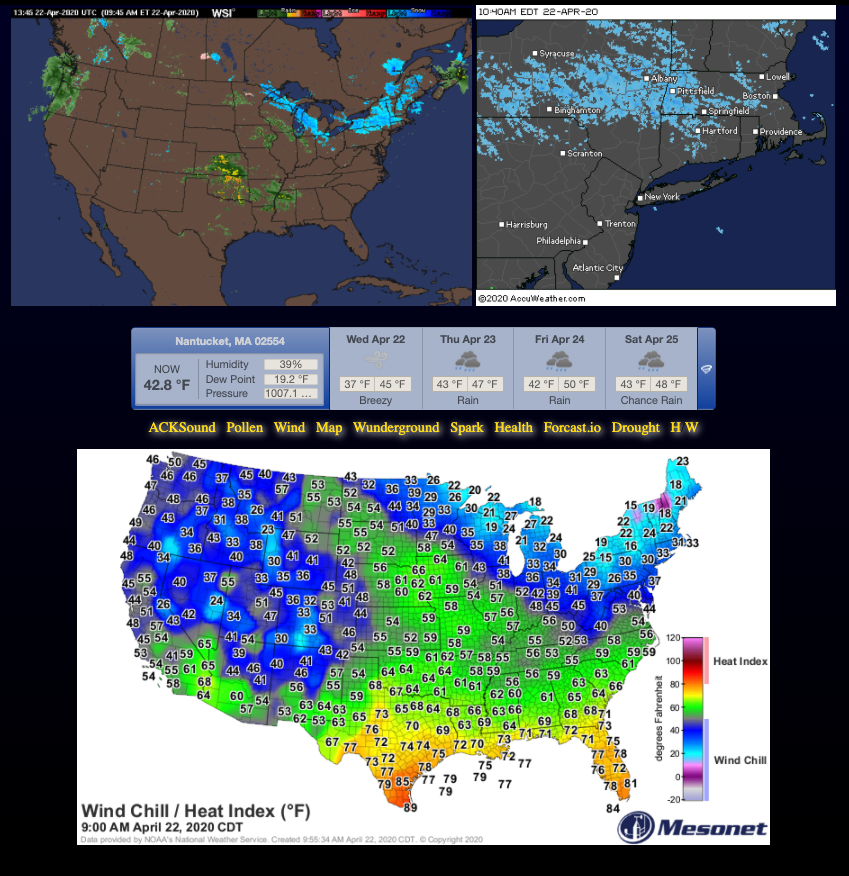
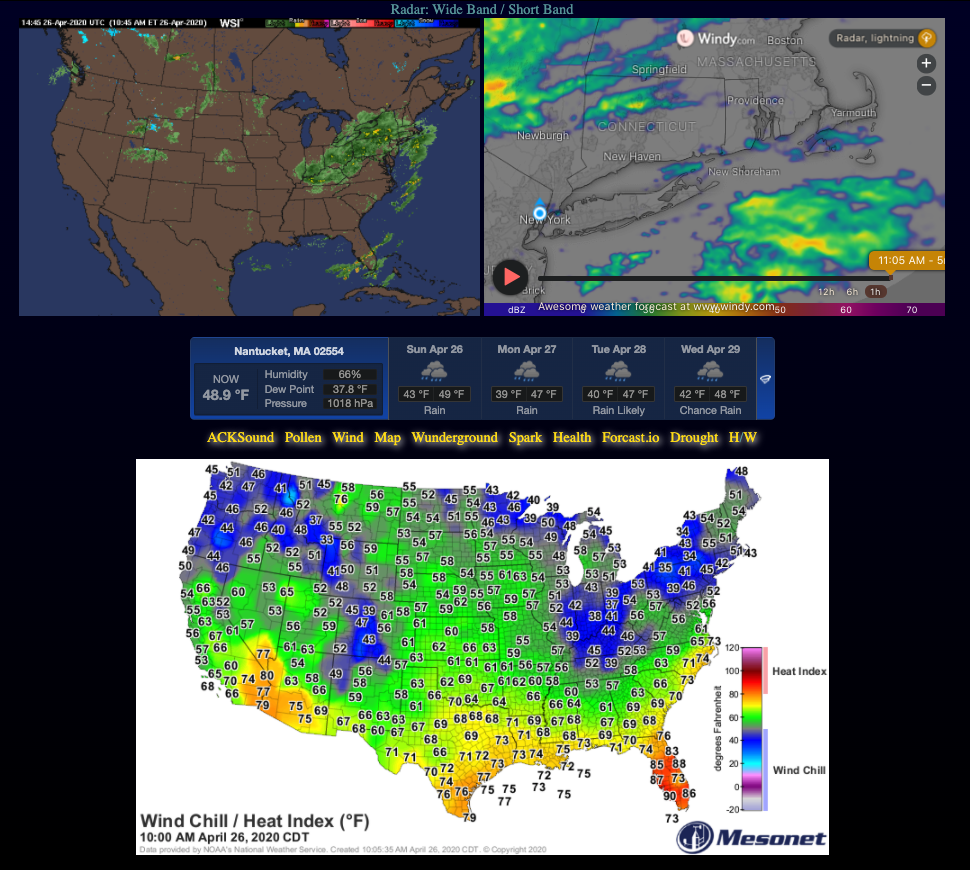
Wide/Short Band Radar
Windy.com's interactive map replaces the Intellacast map to have accurate local ACK radar map that also shows lightening, wind patterns and far more.

diff --git a/weather.html b/weather.html
@@ -62,9 +62,12 @@
 	<script type="text/javascript" src="http://ajax.googleapis.com/ajax/libs/jquery/1.6.1/jquery.min.js"></script>
  </head>
  <body>
-<div class="centeredImage">
-        <img width="512" height="331" src="http://images.intellicast.com/WxImages/RadarLoop/usa_None_anim.gif" title="North America-- Intellicast">
-	<img src="http://sirocco.accuweather.com/nx_mosaic_400x300c/SIR/inmaSIRCT_.gif" title="NE Region-- Accuweather">
+<div class="centeredImage" style="color:cadetblue">
+        Radar: Wide & Short Band<br>
+        <!--iframe width="512" height="331" src="https://embed.windy.com/embed2.html?lat=41.968&lon=-92.813&zoom=3&level=surface&overlay=radar&menu=&message=&marker=&calendar=&pressure=&type=map&location=coordinates&detail=&detailLat=40.833&detailLon=-70.109&metricWind=default&metricTemp=default&radarRange=-1" frameborder="0"></iframe-->
+        <img width="512" height="331" src="http://images.intellicast.com/WxImages/RadarLoop/usa_None_anim.gif" title="North America--Intellicast's Wide Band Radar">
+	
+        <iframe width="512" height="331" src="https://embed.windy.com/embed2.html?lat=41.217&lon=-71.924&zoom=7&level=surface&overlay=radar&menu=&message=true&marker=&calendar=&pressure=&type=map&location=coordinates&detail=&detailLat=40.833&detailLon=-70.112&metricWind=mph&metricTemp=%C2%B0F&radarRange=-1" frameborder="0"></iframe>
 	<br>
 	<br>
     <span style="width: 650px;">
@@ -86,9 +89,12 @@
         </span><br>
 	
 		<img src="https://www.mesonet.org/data/public/noaa/metar/maps/realtime/latest.tapp.png?cache_bust=1577754836685" oversrc="https://www.weatherwx.com/images/hwi3_mapset/generated/cur__us_ma_windchl.png" title="Heat / Wind-Chill Maps">
-		<!-- images to use
+
+    
+    <!-- Former images to use
 			 <img src="https://cdn.apwx.net/img/maps/us/weather/us-humidity-x720x495.jpg" title="humidity map">	
 			 <img src="https://cdn.apwx.net/img/maps/us/weather/us-wind-chill-f-x720x495.jpg" title="wind-chill map"> 
+        <img src="http://sirocco.accuweather.com/nx_mosaic_400x300c/SIR/inmaSIRCT_.gif" title="NE Region-- Accuweather">
 	-->
  </div>
  </body>

diff --git a/README.md b/README.md
@@ -3,19 +3,20 @@ ackWeather
 Purpose: 
 
 	A dedicated web-page that grabs and displays weather info and maps for Nantucket 
-	with links to Nantucket Sound Bouy Data, Wind Map, Pollen Levels, Forcast.io, 
-	Wunderground Nantucket, and WeatherSpark's tempature chart.
+	with Interactive Maps and widgets and links to Nantucket Sound Bouy Data, Wind Map,
+    Pollen Levels, Forcast.io, Drought, Wunderground Nantucket, and WeatherSpark's tempature chart and more.
 
 <img src="https://github.com/xeoron/ackWeather/blob/master/images/sample.png?raw=true"/>
 
 Extra features:
 
 	-Data is refreshed every 10 minutes
-	-Dolpar Radar is animated
+	-Dolpar / Lightning Radar
+    -Interactive Maps that show everything and are adjustable for location
+    -Interactive Forcast: Mouse-over or click to display more details
 	-Mouse-over the Wind-Chill Map and it will switch to Surface Heat Map
-	-Mouse-over the other maps and it will display source info
 	-Current weather conditions with four day forcast with more detailed if you click on the date
-	-Makes use of CSS3 color blending and round corners & bright text
+	
 	
 Requirements
 =====
